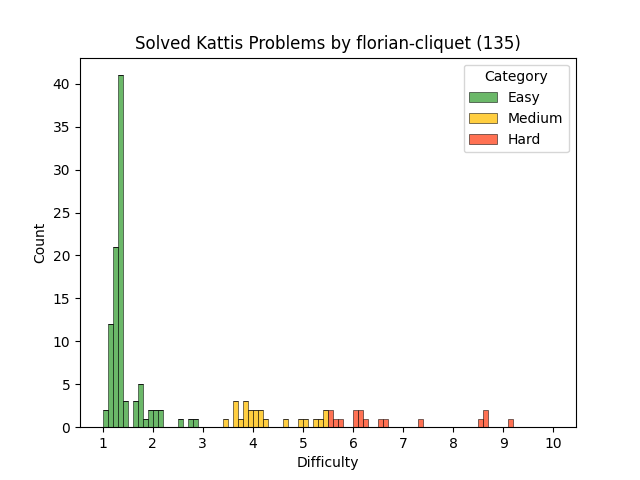
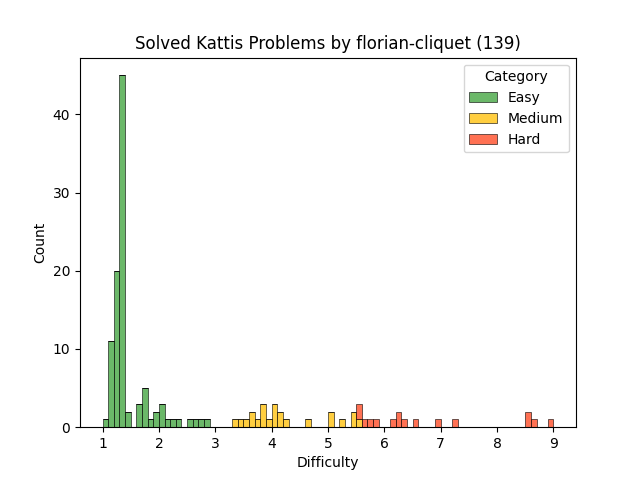
auto update

diff --git a/src/periodicstrings.cpp b/src/periodicstrings.cpp
@@ -1,0 +1,39 @@
+#include <bits/stdc++.h>
+using namespace std;
+#define FAST_IO ios_base::sync_with_stdio(false); cin.tie(nullptr); cout.tie(nullptr);
+#pragma GCC optimize("O3,unroll-loops")
+#pragma GCC optimize ("Ofast")
+#pragma GCC target("sse,sse2,sse3,ssse3,sse4,popcnt,abm,mmx,avx2,tune=native")
+
+bool is_k_periodic(const string& s, int k) {
+    int n = s.size();
+    if (n % k != 0) return false; // Length must be a multiple of k
+
+    // Check each k-length segment
+    for (int i = 1; i < n / k; ++i) {
+        string previous = s.substr((i - 1) * k, k);
+        string current = s.substr(i * k, k);
+        
+        // Right-rotate the previous substring by one
+        char last_char = previous.back();
+        previous.pop_back();
+        previous.insert(previous.begin(), last_char);
+        
+        if (current != previous) return false; // The rotation rule fails
+    }
+    return true;
+}
+
+int find_min_k_periodic(const std::string& s) {
+    int n = s.size();
+    
+    for (int k = 1; k <= n; ++k)if (is_k_periodic(s, k)) return k;
+    return n; // If no k found, k = n (entire string itself)
+}
+
+int main() {
+    FAST_IO;
+    string s;cin >> s;
+    cout << find_min_k_periodic(s) << endl;
+    return 0;
+}

diff --git a/src/bobby.cpp b/src/bobby.cpp
@@ -1,0 +1,51 @@
+#include <bits/stdc++.h>
+
+using namespace std;
+
+#define rep(i, a, b) for (int i = a; i < b; ++i)
+#define scan(x) scanf("%d", &x)
+typedef long double ld;
+
+
+int fact(int n) {
+    if (n == 0) return 1;
+    int res = 1;
+    rep(i, 2, n + 1) res *= i;
+    return res;
+}
+
+ld solve(int r, int s) {
+    ld res = r - 1;
+    return res / s;
+}
+
+ld solve(ld p, int X, int Y) {
+    ld t = pow(p, Y - X);
+    p = 1.0 - p;
+    rep(i, 0, X) t *= p;
+    int k = fact(Y) / fact(X); 
+    k /= fact(Y - X);
+    return t * k;
+}
+
+bool good(int R, int S, int X, int Y, int W) {
+    ld p = solve(R, S);
+    ld t = 0;
+    for (int i = X; i <= Y; ++i) t += solve(p, i, Y);
+    t *= W;
+    return t > 1.0;
+}
+
+int main() {
+    ios::sync_with_stdio(false);
+    cin.tie(0);
+    int T;
+    scan(T);
+    while (T--) {
+        int R, S, X, Y, W;
+        scan(R); scan(S); scan(X);
+        scan(Y); scan(W);
+        cout << (good(R, S, X, Y, W) ? "yes" : "no") << endl;
+    }
+    return 0;
+}

diff --git a/src/dishonestlottery.cpp b/src/dishonestlottery.cpp
@@ -1,0 +1,44 @@
+#include <bits/stdc++.h>
+using namespace std;
+
+#define FAST_IO ios_base::sync_with_stdio(false); cin.tie(nullptr); cout.tie(nullptr);
+#define pb push_back
+#define nl "\n"
+#define IMPOSSIBLE cout << "IMPOSSIBLE\n"
+typedef long long ll;
+
+
+int main() {
+    int t = 1;
+
+    while(t--) {
+        int n;
+        cin >> n;
+
+        vector<int> count(51, 0);
+        for(int i = 0; i<10*n; i++) {
+            for(int j = 0; j<5; j++) {
+                int x;
+                cin >> x;
+                count[x]++;
+            }
+        }
+
+        vector<int> res;
+        int lim = 2*n;
+
+        for(int i = 1; i<=50; i++) {
+            if(count[i] > lim) {
+                res.push_back(i);
+            }
+        }
+
+        if(res.empty()) {
+            cout << -1 << nl;
+            return 0;
+        }
+        for(auto& i : res) cout << i << nl;
+    }
+
+    return 0;
+}

diff --git a/src/dicebetting.cpp b/src/dicebetting.cpp
@@ -1,0 +1,36 @@
+#include <bits/stdc++.h>
+
+using namespace std;
+typedef long double ld;
+
+int main() {
+    int n, s, k;
+    cin >> n >> s >> k;
+
+    // dp[throws][unique] = probability
+    vector<vector<ld>> dp;
+    dp.resize(n+1,vector<ld>(s+1,0));
+    dp[0][0] = 1;
+
+    // Do some DP here
+    // For each number of throws
+    for(int i = 1; i <= n; i++) {
+        // For each count of unique sides afterwards
+        for(int j = 1; j <= s; j++) {
+            ld probnew = ld(s-(j-1)) / s;
+            ld probold = ld(j) / s;
+            ld waysnew = probnew * dp[i-1][j-1];
+            ld waysold = probold * dp[i-1][j];
+            dp[i][j] = waysnew + waysold;
+        }
+    }
+
+    // Recover answer
+    ld prob = 0;
+    for(int i = k; i <= s; i++) {
+        prob += dp[n][i];
+    }
+    cout << fixed;
+    cout.precision(9);
+    cout << prob << endl;
+}

diff --git a/README.md b/README.md
@@ -1,6 +1,6 @@
 # Kattis Solutions
 
-## Total problems solved: 135
+## Total problems solved: 139
 
 ## Repartition chart
 ![Repartition chart](images/problem_difficulty_distribution.png)
@@ -9,55 +9,58 @@ Note that the tables below are auto-generated using a script.
 
 |Problem Name|Solution|Difficulty|Category|Problem Link|
 |:---|:---|:---|:---|:---|
-|[ABC](https://open.kattis.com/problems/abc)|[![cpp](images/cpp.png)](src/abc.cpp)|2.0|Easy|[Problem](https://open.kattis.com/problems/abc)|
+|[ABC](https://open.kattis.com/problems/abc)|[![cpp](images/cpp.png)](src/abc.cpp)|2.2|Easy|[Problem](https://open.kattis.com/problems/abc)|
 |[Adding Trouble](https://open.kattis.com/problems/addingtrouble)|[![cpp](images/cpp.png)](src/addingtrouble.cpp)|1.3|Easy|[Problem](https://open.kattis.com/problems/addingtrouble)|
 |[Add Two Numbers](https://open.kattis.com/problems/addtwonumbers)|[![cpp](images/cpp.png)](src/addtwonumbers.cpp)|1.3|Easy|[Problem](https://open.kattis.com/problems/addtwonumbers)|
 |[Á leið í bíó](https://open.kattis.com/problems/aleidibio)|[![cpp](images/cpp.png)](src/aleidibio.cpp)|1.1|Easy|[Problem](https://open.kattis.com/problems/aleidibio)|
 |[Amerískur vinnustaður](https://open.kattis.com/problems/ameriskur)|[![cpp](images/cpp.png)](src/ameriskur.cpp)|1.3|Easy|[Problem](https://open.kattis.com/problems/ameriskur)|
-|[Autori](https://open.kattis.com/problems/autori)|[![cpp](images/cpp.png)](src/autori.cpp)|1.2|Easy|[Problem](https://open.kattis.com/problems/autori)|
+|[Autori](https://open.kattis.com/problems/autori)|[![cpp](images/cpp.png)](src/autori.cpp)|1.3|Easy|[Problem](https://open.kattis.com/problems/autori)|
 |[Ball Bearings](https://open.kattis.com/problems/ballbearings)|[![cpp](images/cpp.png)](src/ballbearings.cpp)|4.1|Medium|[Problem](https://open.kattis.com/problems/ballbearings)|
 |[Barcelona](https://open.kattis.com/problems/barcelona)|[![cpp](images/cpp.png)](src/barcelona.cpp)|1.3|Easy|[Problem](https://open.kattis.com/problems/barcelona)|
-|[Bazaar](https://open.kattis.com/problems/bazaar)|[![cpp](images/cpp.png)](src/bazaar.cpp)|5.3|Medium|[Problem](https://open.kattis.com/problems/bazaar)|
+|[Bazaar](https://open.kattis.com/problems/bazaar)|[![cpp](images/cpp.png)](src/bazaar.cpp)|5.6|Medium|[Problem](https://open.kattis.com/problems/bazaar)|
 |[BergMál](https://open.kattis.com/problems/bergmal)|[![cpp](images/cpp.png)](src/bergmal.cpp)|1.2|Easy|[Problem](https://open.kattis.com/problems/bergmal)|
 |[Besta gjöfin](https://open.kattis.com/problems/bestagjofin)|[![cpp](images/cpp.png)](src/bestagjofin.cpp)|1.3|Easy|[Problem](https://open.kattis.com/problems/bestagjofin)|
 |[Betting](https://open.kattis.com/problems/betting)|[![cpp](images/cpp.png)](src/betting.cpp)|1.3|Easy|[Problem](https://open.kattis.com/problems/betting)|
 |[Bijele](https://open.kattis.com/problems/bijele)|[![cpp](images/cpp.png)](src/bijele.cpp)|1.3|Easy|[Problem](https://open.kattis.com/problems/bijele)|
-|[Bíóferð](https://open.kattis.com/problems/bioferd)|[![cpp](images/cpp.png)](src/bioferd.cpp)|6.1|Hard|[Problem](https://open.kattis.com/problems/bioferd)|
+|[Bíóferð](https://open.kattis.com/problems/bioferd)|[![cpp](images/cpp.png)](src/bioferd.cpp)|6.2|Hard|[Problem](https://open.kattis.com/problems/bioferd)|
 |[Bitte ein Bit](https://open.kattis.com/problems/bitteeinbit)|[![cpp](images/cpp.png)](src/bitteeinbit.cpp)|1.3|Easy|[Problem](https://open.kattis.com/problems/bitteeinbit)|
 |[Blaðra](https://open.kattis.com/problems/bladra2)|[![cpp](images/cpp.png)](src/bladra2.cpp)|1.3|Easy|[Problem](https://open.kattis.com/problems/bladra2)|
 |[Blandað Best](https://open.kattis.com/problems/blandadbest)|[![cpp](images/cpp.png)](src/blandadbest.cpp)|1.2|Easy|[Problem](https://open.kattis.com/problems/blandadbest)|
 |[Bob](https://open.kattis.com/problems/bob)|[![cpp](images/cpp.png)](src/bob.cpp)|5.7|Medium|[Problem](https://open.kattis.com/problems/bob)|
-|[Book Shelves](https://open.kattis.com/problems/bokhyllor)|[![cpp](images/cpp.png)](src/bokhyllor.cpp)|3.6|Medium|[Problem](https://open.kattis.com/problems/bokhyllor)|
+|[Bobby's Bet](https://open.kattis.com/problems/bobby)|[![cpp](images/cpp.png)](src/bobby.cpp)|2.6|Easy|[Problem](https://open.kattis.com/problems/bobby)|
+|[Book Shelves](https://open.kattis.com/problems/bokhyllor)|[![cpp](images/cpp.png)](src/bokhyllor.cpp)|3.5|Medium|[Problem](https://open.kattis.com/problems/bokhyllor)|
 |[Bounding Robots](https://open.kattis.com/problems/boundingrobots)|[![cpp](images/cpp.png)](src/boundingrobots.cpp)|2.0|Easy|[Problem](https://open.kattis.com/problems/boundingrobots)|
 |[Brocard Point of a Triangle](https://open.kattis.com/problems/brocard)|[![cpp](images/cpp.png)](src/brocard.cpp)|4.6|Medium|[Problem](https://open.kattis.com/problems/brocard)|
 |[Call for Problems](https://open.kattis.com/problems/callforproblems)|[![cpp](images/cpp.png)](src/callforproblems.cpp)|1.3|Easy|[Problem](https://open.kattis.com/problems/callforproblems)|
 |[Solving for Carrots](https://open.kattis.com/problems/carrots)|[![cpp](images/cpp.png)](src/carrots.cpp)|1.3|Easy|[Problem](https://open.kattis.com/problems/carrots)|
 |[Chanukah Challenge](https://open.kattis.com/problems/chanukah)|[![cpp](images/cpp.png)](src/chanukah.cpp)|1.3|Easy|[Problem](https://open.kattis.com/problems/chanukah)|
-|[Clinic](https://open.kattis.com/problems/clinic)|[![cpp](images/cpp.png)](src/clinic.cpp)|3.9|Medium|[Problem](https://open.kattis.com/problems/clinic)|
+|[Clinic](https://open.kattis.com/problems/clinic)|[![cpp](images/cpp.png)](src/clinic.cpp)|4.0|Medium|[Problem](https://open.kattis.com/problems/clinic)|
 |[Cold-puter Science](https://open.kattis.com/problems/cold)|[![cpp](images/cpp.png)](src/cold.cpp)|1.3|Easy|[Problem](https://open.kattis.com/problems/cold)|
 |[Convex Hull](https://open.kattis.com/problems/convexhull)|[![cpp](images/cpp.png)](src/convexhull.cpp)|3.9|Medium|[Problem](https://open.kattis.com/problems/convexhull)|
 |[Cosmic Path Optimization](https://open.kattis.com/problems/cosmicpathoptimization)|[![cpp](images/cpp.png)](src/cosmicpathoptimization.cpp)|1.3|Easy|[Problem](https://open.kattis.com/problems/cosmicpathoptimization)|
-|[Costume Contest](https://open.kattis.com/problems/costumecontest)|[![cpp](images/cpp.png)](src/costumecontest.cpp)|1.9|Easy|[Problem](https://open.kattis.com/problems/costumecontest)|
+|[Costume Contest](https://open.kattis.com/problems/costumecontest)|[![cpp](images/cpp.png)](src/costumecontest.cpp)|2.0|Easy|[Problem](https://open.kattis.com/problems/costumecontest)|
 |[Count the Vowels](https://open.kattis.com/problems/countthevowels)|[![cpp](images/cpp.png)](src/countthevowels.cpp)|1.3|Easy|[Problem](https://open.kattis.com/problems/countthevowels)|
 |[Dagatal](https://open.kattis.com/problems/dagatal)|[![cpp](images/cpp.png)](src/dagatal.cpp)|1.3|Easy|[Problem](https://open.kattis.com/problems/dagatal)|
 |[Decimal deletion](https://open.kattis.com/problems/decimaldeletion)|[![cpp](images/cpp.png)](src/decimaldeletion.cpp)|1.3|Easy|[Problem](https://open.kattis.com/problems/decimaldeletion)|
+|[Dice Betting](https://open.kattis.com/problems/dicebetting)|[![cpp](images/cpp.png)](src/dicebetting.cpp)|4.1|Medium|[Problem](https://open.kattis.com/problems/dicebetting)|
 |[Digit Swap](https://open.kattis.com/problems/digitswap)|[![cpp](images/cpp.png)](src/digitswap.cpp)|1.2|Easy|[Problem](https://open.kattis.com/problems/digitswap)|
+|[Dishonest Lottery](https://open.kattis.com/problems/dishonestlottery)|[![cpp](images/cpp.png)](src/dishonestlottery.cpp)|1.9|Easy|[Problem](https://open.kattis.com/problems/dishonestlottery)|
 |[Draga Frá](https://open.kattis.com/problems/dragafra)|[![cpp](images/cpp.png)](src/dragafra.cpp)|1.1|Easy|[Problem](https://open.kattis.com/problems/dragafra)|
 |[MeTube](https://open.kattis.com/problems/dutub)|[![cpp](images/cpp.png)](src/dutub.cpp)|3.7|Medium|[Problem](https://open.kattis.com/problems/dutub)|
 |[Echo Echo Echo](https://open.kattis.com/problems/echoechoecho)|[![cpp](images/cpp.png)](src/echoechoecho.cpp)|1.2|Easy|[Problem](https://open.kattis.com/problems/echoechoecho)|
-|[Eksplozija](https://open.kattis.com/problems/eksplozija)|[![cpp](images/cpp.png)](src/eksplozija.cpp)|7.3|Hard|[Problem](https://open.kattis.com/problems/eksplozija)|
+|[Eksplozija](https://open.kattis.com/problems/eksplozija)|[![cpp](images/cpp.png)](src/eksplozija.cpp)|7.2|Hard|[Problem](https://open.kattis.com/problems/eksplozija)|
 |[Factstone Benchmark](https://open.kattis.com/problems/factstone)|[![cpp](images/cpp.png)](src/factstone.cpp)|4.0|Medium|[Problem](https://open.kattis.com/problems/factstone)|
 |[Färgrobot](https://open.kattis.com/problems/fargrobot)|[![cpp](images/cpp.png)](src/fargrobot.cpp)|1.7|Easy|[Problem](https://open.kattis.com/problems/fargrobot)|
-|[Fibs og Dibs](https://open.kattis.com/problems/fibsogdibs)|[![cpp](images/cpp.png)](src/fibsogdibs.cpp)|6.0|Hard|[Problem](https://open.kattis.com/problems/fibsogdibs)|
+|[Fibs og Dibs](https://open.kattis.com/problems/fibsogdibs)|[![cpp](images/cpp.png)](src/fibsogdibs.cpp)|6.3|Hard|[Problem](https://open.kattis.com/problems/fibsogdibs)|
 |[Framtíðar FIFA](https://open.kattis.com/problems/fifa)|[![cpp](images/cpp.png)](src/fifa.cpp)|1.1|Easy|[Problem](https://open.kattis.com/problems/fifa)|
-|[Finding An A](https://open.kattis.com/problems/findingana)|[![cpp](images/cpp.png)](src/findingana.cpp)|1.2|Easy|[Problem](https://open.kattis.com/problems/findingana)|
-|[Flatbökuveisla](https://open.kattis.com/problems/flatbokuveisla)|[![cpp](images/cpp.png)](src/flatbokuveisla.cpp)|1.1|Easy|[Problem](https://open.kattis.com/problems/flatbokuveisla)|
+|[Finding An A](https://open.kattis.com/problems/findingana)|[![cpp](images/cpp.png)](src/findingana.cpp)|1.3|Easy|[Problem](https://open.kattis.com/problems/findingana)|
+|[Flatbökuveisla](https://open.kattis.com/problems/flatbokuveisla)|[![cpp](images/cpp.png)](src/flatbokuveisla.cpp)|1.2|Easy|[Problem](https://open.kattis.com/problems/flatbokuveisla)|
 |[Framvindustika](https://open.kattis.com/problems/framvindustika)|[![cpp](images/cpp.png)](src/framvindustika.cpp)|3.4|Medium|[Problem](https://open.kattis.com/problems/framvindustika)|
 |[Frogger](https://open.kattis.com/problems/frogger)|[![cpp](images/cpp.png)](src/frogger.cpp)|5.5|Medium|[Problem](https://open.kattis.com/problems/frogger)|
 |[Frumtölutalning](https://open.kattis.com/problems/frumtolutalning)|[![cpp](images/cpp.png)](src/frumtolutalning.cpp)|8.5|Hard|[Problem](https://open.kattis.com/problems/frumtolutalning)|
 |[FYI](https://open.kattis.com/problems/fyi)|[![cpp](images/cpp.png)](src/fyi.cpp)|1.3|Easy|[Problem](https://open.kattis.com/problems/fyi)|
 |[Goldbach's Conjecture](https://open.kattis.com/problems/goldbach2)|[![cpp](images/cpp.png)](src/goldbach2.cpp)|2.1|Easy|[Problem](https://open.kattis.com/problems/goldbach2)|
-|[Golf](https://open.kattis.com/problems/golf)|[![cpp](images/cpp.png)](src/golf.cpp)|9.1|Hard|[Problem](https://open.kattis.com/problems/golf)|
+|[Golf](https://open.kattis.com/problems/golf)|[![cpp](images/cpp.png)](src/golf.cpp)|8.9|Hard|[Problem](https://open.kattis.com/problems/golf)|
 |[Greedily Increasing Subsequence](https://open.kattis.com/problems/greedilyincreasing)|[![cpp](images/cpp.png)](src/greedilyincreasing.cpp)|1.9|Easy|[Problem](https://open.kattis.com/problems/greedilyincreasing)|
 |[Greetings!](https://open.kattis.com/problems/greetings2)|[![cpp](images/cpp.png)](src/greetings2.cpp)|1.3|Easy|[Problem](https://open.kattis.com/problems/greetings2)|
 |[I Can Guess the Data Structure!](https://open.kattis.com/problems/guessthedatastructure)|[![cpp](images/cpp.png)](src/guessthedatastructure.cpp)|2.7|Easy|[Problem](https://open.kattis.com/problems/guessthedatastructure)|
@@ -65,10 +68,10 @@ Note that the tables below are auto-generated using a script.
 |[Hipp Hipp](https://open.kattis.com/problems/hipphipp)|[![cpp](images/cpp.png)](src/hipphipp.cpp)|1.1|Easy|[Problem](https://open.kattis.com/problems/hipphipp)|
 |[Hipp Hipp Húrra](https://open.kattis.com/problems/hipphipphurra)|[![cpp](images/cpp.png)](src/hipphipphurra.cpp)|1.2|Easy|[Problem](https://open.kattis.com/problems/hipphipphurra)|
 |[Hissing Microphone](https://open.kattis.com/problems/hissingmicrophone)|[![cpp](images/cpp.png)](src/hissingmicrophone.cpp)|1.3|Easy|[Problem](https://open.kattis.com/problems/hissingmicrophone)|
-|[How Many Digits?](https://open.kattis.com/problems/howmanydigits)|[![cpp](images/cpp.png)](src/howmanydigits.cpp)|4.1|Medium|[Problem](https://open.kattis.com/problems/howmanydigits)|
+|[How Many Digits?](https://open.kattis.com/problems/howmanydigits)|[![cpp](images/cpp.png)](src/howmanydigits.cpp)|3.8|Medium|[Problem](https://open.kattis.com/problems/howmanydigits)|
 |[Hraðgreining](https://open.kattis.com/problems/hradgreining)|[![cpp](images/cpp.png)](src/hradgreining.cpp)|1.2|Easy|[Problem](https://open.kattis.com/problems/hradgreining)|
 |[Input Scandal](https://open.kattis.com/problems/inputscandal)|[![cpp](images/cpp.png)](src/inputscandal.cpp)|1.8|Easy|[Problem](https://open.kattis.com/problems/inputscandal)|
-|[IsItHalloween.com](https://open.kattis.com/problems/isithalloween)|[![cpp](images/cpp.png)](src/isithalloween.cpp)|1.3|Easy|[Problem](https://open.kattis.com/problems/isithalloween)|
+|[IsItHalloween.com](https://open.kattis.com/problems/isithalloween)|[![cpp](images/cpp.png)](src/isithalloween.cpp)|1.4|Easy|[Problem](https://open.kattis.com/problems/isithalloween)|
 |[Is Y a Vowel?](https://open.kattis.com/problems/isyavowel)|[![cpp](images/cpp.png)](src/isyavowel.cpp)|1.3|Easy|[Problem](https://open.kattis.com/problems/isyavowel)|
 |[Jabuke](https://open.kattis.com/problems/jabuke)|[![cpp](images/cpp.png)](src/jabuke.cpp)|1.7|Easy|[Problem](https://open.kattis.com/problems/jabuke)|
 |[Jack-O'-Lantern Juxtaposition](https://open.kattis.com/problems/jackolanternjuxtaposition)|[![cpp](images/cpp.png)](src/jackolanternjuxtaposition.cpp)|1.2|Easy|[Problem](https://open.kattis.com/problems/jackolanternjuxtaposition)|
@@ -80,12 +83,12 @@ Note that the tables below are auto-generated using a script.
 |[Knight Packing](https://open.kattis.com/problems/knightpacking)|[![cpp](images/cpp.png)](src/knightpacking.cpp)|1.3|Easy|[Problem](https://open.kattis.com/problems/knightpacking)|
 |[Codforces](https://open.kattis.com/problems/kodkraft)|[![cpp](images/cpp.png)](src/kodkraft.cpp)|5.4|Medium|[Problem](https://open.kattis.com/problems/kodkraft)|
 |[Kveðja](https://open.kattis.com/problems/kvedja)|[![cpp](images/cpp.png)](src/kvedja.cpp)|1.1|Easy|[Problem](https://open.kattis.com/problems/kvedja)|
-|[Last Factorial Digit](https://open.kattis.com/problems/lastfactorialdigit)|[![cpp](images/cpp.png)](src/lastfactorialdigit.cpp)|1.4|Easy|[Problem](https://open.kattis.com/problems/lastfactorialdigit)|
+|[Last Factorial Digit](https://open.kattis.com/problems/lastfactorialdigit)|[![cpp](images/cpp.png)](src/lastfactorialdigit.cpp)|1.3|Easy|[Problem](https://open.kattis.com/problems/lastfactorialdigit)|
 |[Leggja saman](https://open.kattis.com/problems/leggjasaman)|[![cpp](images/cpp.png)](src/leggjasaman.cpp)|1.2|Easy|[Problem](https://open.kattis.com/problems/leggjasaman)|
 |[Leyniþjónusta](https://open.kattis.com/problems/leynithjonusta)|[![cpp](images/cpp.png)](src/leynithjonusta.cpp)|1.3|Easy|[Problem](https://open.kattis.com/problems/leynithjonusta)|
 |[Lubbi Lærir](https://open.kattis.com/problems/lubbilaerir)|[![cpp](images/cpp.png)](src/lubbilaerir.cpp)|1.1|Easy|[Problem](https://open.kattis.com/problems/lubbilaerir)|
 |[Maximum Number of Colinear Points](https://open.kattis.com/problems/maxcolinear)|[![cpp](images/cpp.png)](src/maxcolinear.cpp)|3.8|Medium|[Problem](https://open.kattis.com/problems/maxcolinear)|
-|[Metronome](https://open.kattis.com/problems/metronome)|[![cpp](images/cpp.png)](src/metronome.cpp)|1.1|Easy|[Problem](https://open.kattis.com/problems/metronome)|
+|[Metronome](https://open.kattis.com/problems/metronome)|[![cpp](images/cpp.png)](src/metronome.cpp)|1.2|Easy|[Problem](https://open.kattis.com/problems/metronome)|
 |[Millifærsla](https://open.kattis.com/problems/millifaersla)|[![cpp](images/cpp.png)](src/millifaersla.cpp)|1.2|Easy|[Problem](https://open.kattis.com/problems/millifaersla)|
 |[Missing Gnomes](https://open.kattis.com/problems/missinggnomes)|[![cpp](images/cpp.png)](src/missinggnomes.cpp)|3.6|Medium|[Problem](https://open.kattis.com/problems/missinggnomes)|
 |[Mravojed](https://open.kattis.com/problems/mravojed)|[![cpp](images/cpp.png)](src/mravojed.cpp)|6.5|Hard|[Problem](https://open.kattis.com/problems/mravojed)|
@@ -97,45 +100,46 @@ Note that the tables below are auto-generated using a script.
 |[Öfugsnúið](https://open.kattis.com/problems/ofugsnuid)|[![cpp](images/cpp.png)](src/ofugsnuid.cpp)|1.6|Easy|[Problem](https://open.kattis.com/problems/ofugsnuid)|
 |[Otpor](https://open.kattis.com/problems/otpor)|[![cpp](images/cpp.png)](src/otpor.cpp)|4.0|Medium|[Problem](https://open.kattis.com/problems/otpor)|
 |[Óvissa](https://open.kattis.com/problems/ovissa)|[![cpp](images/cpp.png)](src/ovissa.cpp)|1.1|Easy|[Problem](https://open.kattis.com/problems/ovissa)|
-|[Patuljci](https://open.kattis.com/problems/patuljci)|[![cpp](images/cpp.png)](src/patuljci.cpp)|1.7|Easy|[Problem](https://open.kattis.com/problems/patuljci)|
-|[Pizza Crust](https://open.kattis.com/problems/pizza2)|[![cpp](images/cpp.png)](src/pizza2.cpp)|1.6|Easy|[Problem](https://open.kattis.com/problems/pizza2)|
+|[Patuljci](https://open.kattis.com/problems/patuljci)|[![cpp](images/cpp.png)](src/patuljci.cpp)|1.6|Easy|[Problem](https://open.kattis.com/problems/patuljci)|
+|[Periodic Strings](https://open.kattis.com/problems/periodicstrings)|[![cpp](images/cpp.png)](src/periodicstrings.cpp)|2.3|Easy|[Problem](https://open.kattis.com/problems/periodicstrings)|
+|[Pizza Crust](https://open.kattis.com/problems/pizza2)|[![cpp](images/cpp.png)](src/pizza2.cpp)|1.7|Easy|[Problem](https://open.kattis.com/problems/pizza2)|
 |[Pizzastrengur](https://open.kattis.com/problems/pizzastrengur)|Not posted yet|2.8|Easy|[Problem](https://open.kattis.com/problems/pizzastrengur)|
-|[Pot](https://open.kattis.com/problems/pot)|[![cpp](images/cpp.png)](src/pot.cpp)|1.4|Easy|[Problem](https://open.kattis.com/problems/pot)|
+|[Pot](https://open.kattis.com/problems/pot)|[![cpp](images/cpp.png)](src/pot.cpp)|1.3|Easy|[Problem](https://open.kattis.com/problems/pot)|
 |[Prva](https://open.kattis.com/problems/prva)|[![cpp](images/cpp.png)](src/prva.cpp)|1.7|Easy|[Problem](https://open.kattis.com/problems/prva)|
-|[Púsluspil](https://open.kattis.com/problems/pusluspil)|[![cpp](images/cpp.png)](src/pusluspil.cpp)|2.1|Easy|[Problem](https://open.kattis.com/problems/pusluspil)|
+|[Púsluspil](https://open.kattis.com/problems/pusluspil)|[![cpp](images/cpp.png)](src/pusluspil.cpp)|2.0|Easy|[Problem](https://open.kattis.com/problems/pusluspil)|
 |[Quality-Adjusted Life-Year](https://open.kattis.com/problems/qaly)|[![cpp](images/cpp.png)](src/qaly.cpp)|1.3|Easy|[Problem](https://open.kattis.com/problems/qaly)|
 |[Quadrant Selection](https://open.kattis.com/problems/quadrant)|[![cpp](images/cpp.png)](src/quadrant.cpp)|1.2|Easy|[Problem](https://open.kattis.com/problems/quadrant)|
 |[R2](https://open.kattis.com/problems/r2)|[![cpp](images/cpp.png)](src/r2.cpp)|1.3|Easy|[Problem](https://open.kattis.com/problems/r2)|
 |[Rating Problems](https://open.kattis.com/problems/ratingproblems)|[![cpp](images/cpp.png)](src/ratingproblems.cpp)|1.4|Easy|[Problem](https://open.kattis.com/problems/ratingproblems)|
 |[The Rectangles Are Surrounding Us!](https://open.kattis.com/problems/rectanglesurrounding)|[![cpp](images/cpp.png)](src/rectanglesurrounding.cpp)|2.5|Easy|[Problem](https://open.kattis.com/problems/rectanglesurrounding)|
 |[Reduplication](https://open.kattis.com/problems/reduplikation)|[![cpp](images/cpp.png)](src/reduplikation.cpp)|1.1|Easy|[Problem](https://open.kattis.com/problems/reduplikation)|
-|[Rúnnfræði](https://open.kattis.com/problems/runnfraedi)|[![cpp](images/cpp.png)](src/runnfraedi.cpp)|8.6|Hard|[Problem](https://open.kattis.com/problems/runnfraedi)|
-|[Sammaeining](https://open.kattis.com/problems/sammaeining)|[![cpp](images/cpp.png)](src/sammaeining.cpp)|6.0|Hard|[Problem](https://open.kattis.com/problems/sammaeining)|
+|[Rúnnfræði](https://open.kattis.com/problems/runnfraedi)|[![cpp](images/cpp.png)](src/runnfraedi.cpp)|8.5|Hard|[Problem](https://open.kattis.com/problems/runnfraedi)|
+|[Sammaeining](https://open.kattis.com/problems/sammaeining)|[![cpp](images/cpp.png)](src/sammaeining.cpp)|5.8|Medium|[Problem](https://open.kattis.com/problems/sammaeining)|
 |[Line Segment Distance](https://open.kattis.com/problems/segmentdistance)|[![cpp](images/cpp.png)](src/segmentdistance.cpp)|4.2|Medium|[Problem](https://open.kattis.com/problems/segmentdistance)|
 |[Shandy](https://open.kattis.com/problems/shandy)|[![cpp](images/cpp.png)](src/shandy.cpp)|1.3|Easy|[Problem](https://open.kattis.com/problems/shandy)|
 |[A Shortcut to What?](https://open.kattis.com/problems/shortcuttowhat)|[![cpp](images/cpp.png)](src/shortcuttowhat.cpp)|1.2|Easy|[Problem](https://open.kattis.com/problems/shortcuttowhat)|
-|[Silueta](https://open.kattis.com/problems/silueta)|[![cpp](images/cpp.png)](src/silueta.cpp)|4.9|Medium|[Problem](https://open.kattis.com/problems/silueta)|
+|[Silueta](https://open.kattis.com/problems/silueta)|[![cpp](images/cpp.png)](src/silueta.cpp)|5.0|Medium|[Problem](https://open.kattis.com/problems/silueta)|
 |[Skák](https://open.kattis.com/problems/skak)|[![cpp](images/cpp.png)](src/skak.cpp)|1.3|Easy|[Problem](https://open.kattis.com/problems/skak)|
 |[Sort Two Numbers](https://open.kattis.com/problems/sorttwonumbers)|[![cpp](images/cpp.png)](src/sorttwonumbers.cpp)|1.3|Easy|[Problem](https://open.kattis.com/problems/sorttwonumbers)|
 |[Spritt](https://open.kattis.com/problems/spritt)|[![cpp](images/cpp.png)](src/spritt.cpp)|1.3|Easy|[Problem](https://open.kattis.com/problems/spritt)|
 |[Stamp Combinations](https://open.kattis.com/problems/stampcombinations)|[![cpp](images/cpp.png)](src/stampcombinations.cpp)|5.5|Medium|[Problem](https://open.kattis.com/problems/stampcombinations)|
-|[Stikl](https://open.kattis.com/problems/stikl)|[![c](images/c.png)](src/stikl.c)|5.6|Medium|[Problem](https://open.kattis.com/problems/stikl)|
+|[Stikl](https://open.kattis.com/problems/stikl)|[![c](images/c.png)](src/stikl.c)|5.5|Medium|[Problem](https://open.kattis.com/problems/stikl)|
 |[Stórafmæli](https://open.kattis.com/problems/storafmaeli)|[![cpp](images/cpp.png)](src/storafmaeli.cpp)|1.2|Easy|[Problem](https://open.kattis.com/problems/storafmaeli)|
 |[Studentsko](https://open.kattis.com/problems/studentsko)|[![cpp](images/cpp.png)](src/studentsko.cpp)|3.8|Medium|[Problem](https://open.kattis.com/problems/studentsko)|
 |[Sunshine](https://open.kattis.com/problems/sunshine)|[![c](images/c.png)](src/sunshine.c) [![cpp](images/cpp.png)](src/sunshine.cpp)|5.4|Medium|[Problem](https://open.kattis.com/problems/sunshine)|
 |[Symmetric Order](https://open.kattis.com/problems/symmetricorder)|[![cpp](images/cpp.png)](src/symmetricorder.cpp)|1.7|Easy|[Problem](https://open.kattis.com/problems/symmetricorder)|
 |[Takkar](https://open.kattis.com/problems/takkar)|[![cpp](images/cpp.png)](src/takkar.cpp)|1.2|Easy|[Problem](https://open.kattis.com/problems/takkar)|
 |[Takk fyrir mig](https://open.kattis.com/problems/takkfyrirmig)|[![cpp](images/cpp.png)](src/takkfyrirmig.cpp)|1.2|Easy|[Problem](https://open.kattis.com/problems/takkfyrirmig)|
-|[Talnalás](https://open.kattis.com/problems/talnalas)|[![cpp](images/cpp.png)](src/talnalas.cpp)|3.8|Medium|[Problem](https://open.kattis.com/problems/talnalas)|
+|[Talnalás](https://open.kattis.com/problems/talnalas)|[![cpp](images/cpp.png)](src/talnalas.cpp)|3.3|Medium|[Problem](https://open.kattis.com/problems/talnalas)|
 |[Aquarium Tank](https://open.kattis.com/problems/tank)|[![cpp](images/cpp.png)](src/tank.cpp)|5.0|Medium|[Problem](https://open.kattis.com/problems/tank)|
 |[Tarifa](https://open.kattis.com/problems/tarifa)|[![cpp](images/cpp.png)](src/tarifa.cpp)|1.3|Easy|[Problem](https://open.kattis.com/problems/tarifa)|
-|[Teningasafn](https://open.kattis.com/problems/teningasafn)|[![cpp](images/cpp.png)](src/teningasafn.cpp)|6.6|Hard|[Problem](https://open.kattis.com/problems/teningasafn)|
+|[Teningasafn](https://open.kattis.com/problems/teningasafn)|[![cpp](images/cpp.png)](src/teningasafn.cpp)|6.9|Hard|[Problem](https://open.kattis.com/problems/teningasafn)|
 |[Tetration](https://open.kattis.com/problems/tetration)|[![cpp](images/cpp.png)](src/tetration.cpp)|1.6|Easy|[Problem](https://open.kattis.com/problems/tetration)|
 |[Three Digits](https://open.kattis.com/problems/threedigits)|[![cpp](images/cpp.png)](src/threedigits.cpp)|6.1|Hard|[Problem](https://open.kattis.com/problems/threedigits)|
-|[Til hamingju](https://open.kattis.com/problems/tilhamingju)|[![cpp](images/cpp.png)](src/tilhamingju.cpp)|1.0|Easy|[Problem](https://open.kattis.com/problems/tilhamingju)|
+|[Til hamingju](https://open.kattis.com/problems/tilhamingju)|[![cpp](images/cpp.png)](src/tilhamingju.cpp)|1.1|Easy|[Problem](https://open.kattis.com/problems/tilhamingju)|
 |[Stuck In A Time Loop](https://open.kattis.com/problems/timeloop)|[![cpp](images/cpp.png)](src/timeloop.cpp)|1.3|Easy|[Problem](https://open.kattis.com/problems/timeloop)|
 |[Tölvunarfræðingar telja](https://open.kattis.com/problems/tolvunarfraedingartelja)|[![cpp](images/cpp.png)](src/tolvunarfraedingartelja.cpp)|1.1|Easy|[Problem](https://open.kattis.com/problems/tolvunarfraedingartelja)|
-|[Triangle Area](https://open.kattis.com/problems/triarea)|[![cpp](images/cpp.png)](src/triarea.cpp)|1.2|Easy|[Problem](https://open.kattis.com/problems/triarea)|
+|[Triangle Area](https://open.kattis.com/problems/triarea)|[![cpp](images/cpp.png)](src/triarea.cpp)|1.3|Easy|[Problem](https://open.kattis.com/problems/triarea)|
 |[Triolingo Push](https://open.kattis.com/problems/triolingopush)|[![cpp](images/cpp.png)](src/triolingopush.cpp)|6.2|Hard|[Problem](https://open.kattis.com/problems/triolingopush)|
 |[Take Two Stones](https://open.kattis.com/problems/twostones)|[![cpp](images/cpp.png)](src/twostones.cpp)|1.2|Easy|[Problem](https://open.kattis.com/problems/twostones)|
 |[Two-sum](https://open.kattis.com/problems/twosum)|[![cpp](images/cpp.png)](src/twosum.cpp)|1.2|Easy|[Problem](https://open.kattis.com/problems/twosum)|
